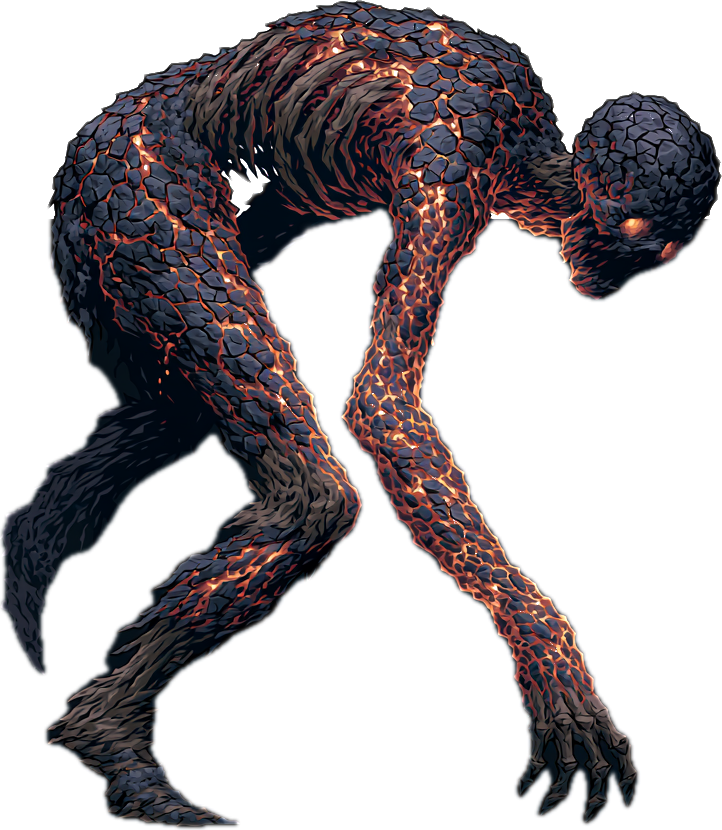
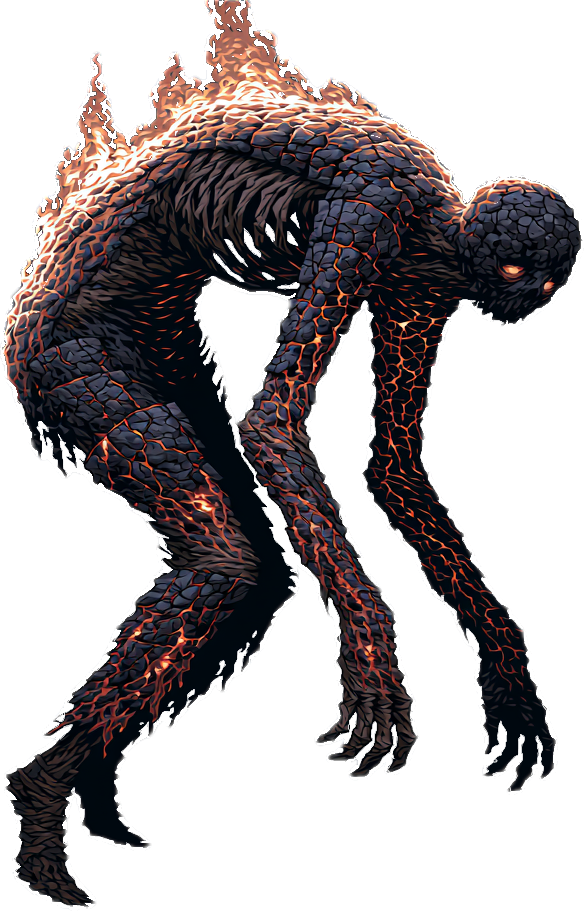
feat(creatures): two-armed Ash Wretch night art + re-measured framing
The shipped night Ash Wretch had only one arm — the busy ember texture hid it
for weeks (the day version was always two-armed). Regenerated in Midjourney on a
black backdrop and re-cut; the new pose is taller/narrower, so its stage framing
is re-measured from the sprite's alpha.

- Swap ash_wretch_night.png (two-armed, 584x911).
- paintedRegistry night framing: aspect 0.87 -> 0.64, footRight 0.884 -> 0.952,
  stanceDepth 0.223 -> 0.21 (day art + framing unchanged).

diff --git a/src/components/combat/creatures/paintedRegistry.ts b/src/components/combat/creatures/paintedRegistry.ts
@@ -38,7 +38,7 @@ export const PAINTED_CREATURES: Record<string, PaintedCreature> = {
     scale: 1,
     night: {
       source: require('../../../assets/creatures/ash_wretch_night.png'),
-      framing: { aspect: 0.87, footLeft: 0.017, footRight: 0.884, stanceDepth: 0.223 },
+      framing: { aspect: 0.641, footLeft: 0.01, footRight: 0.952, stanceDepth: 0.21 },
     },
     day: {
       source: require('../../../assets/creatures/ash_wretch_day.png'),